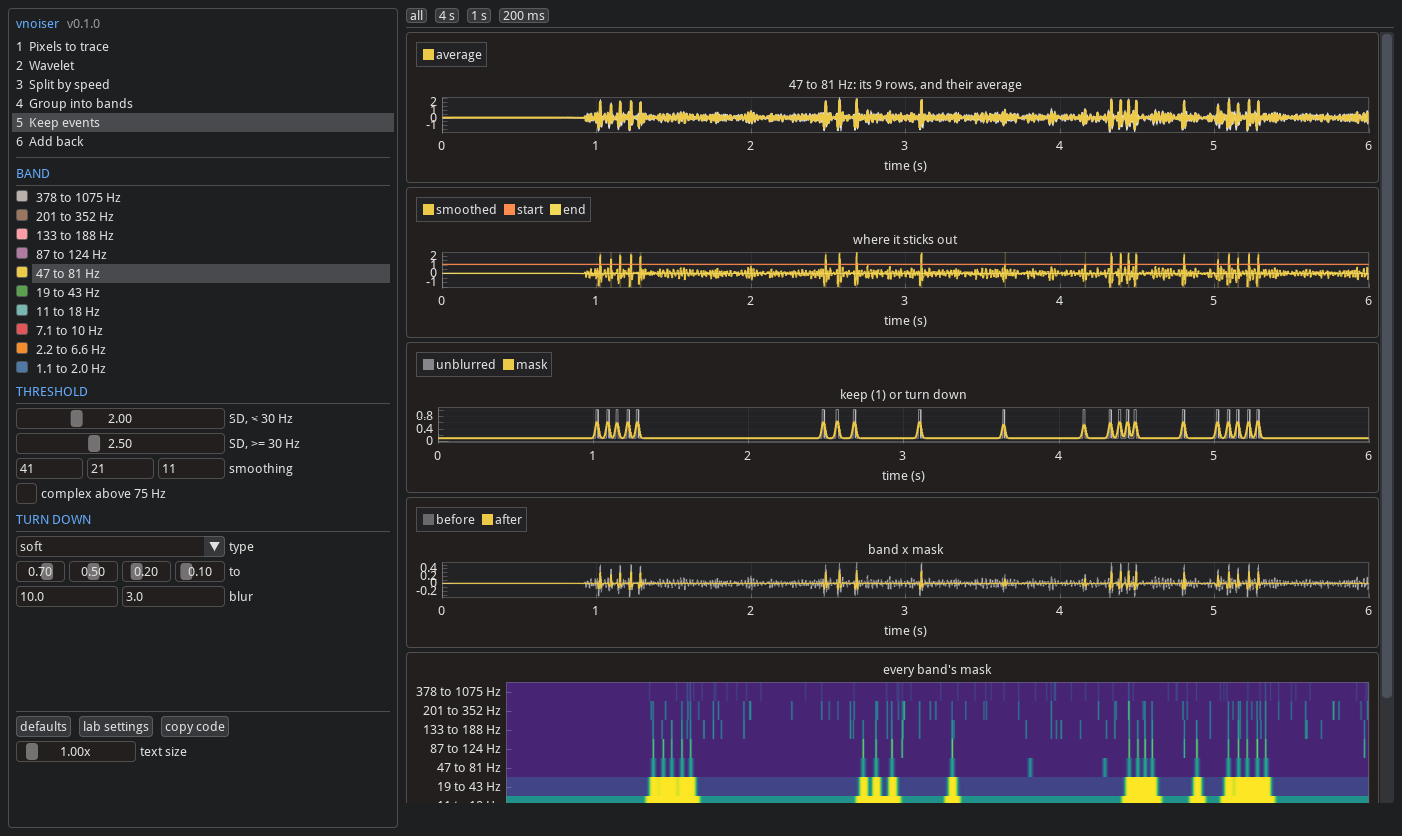
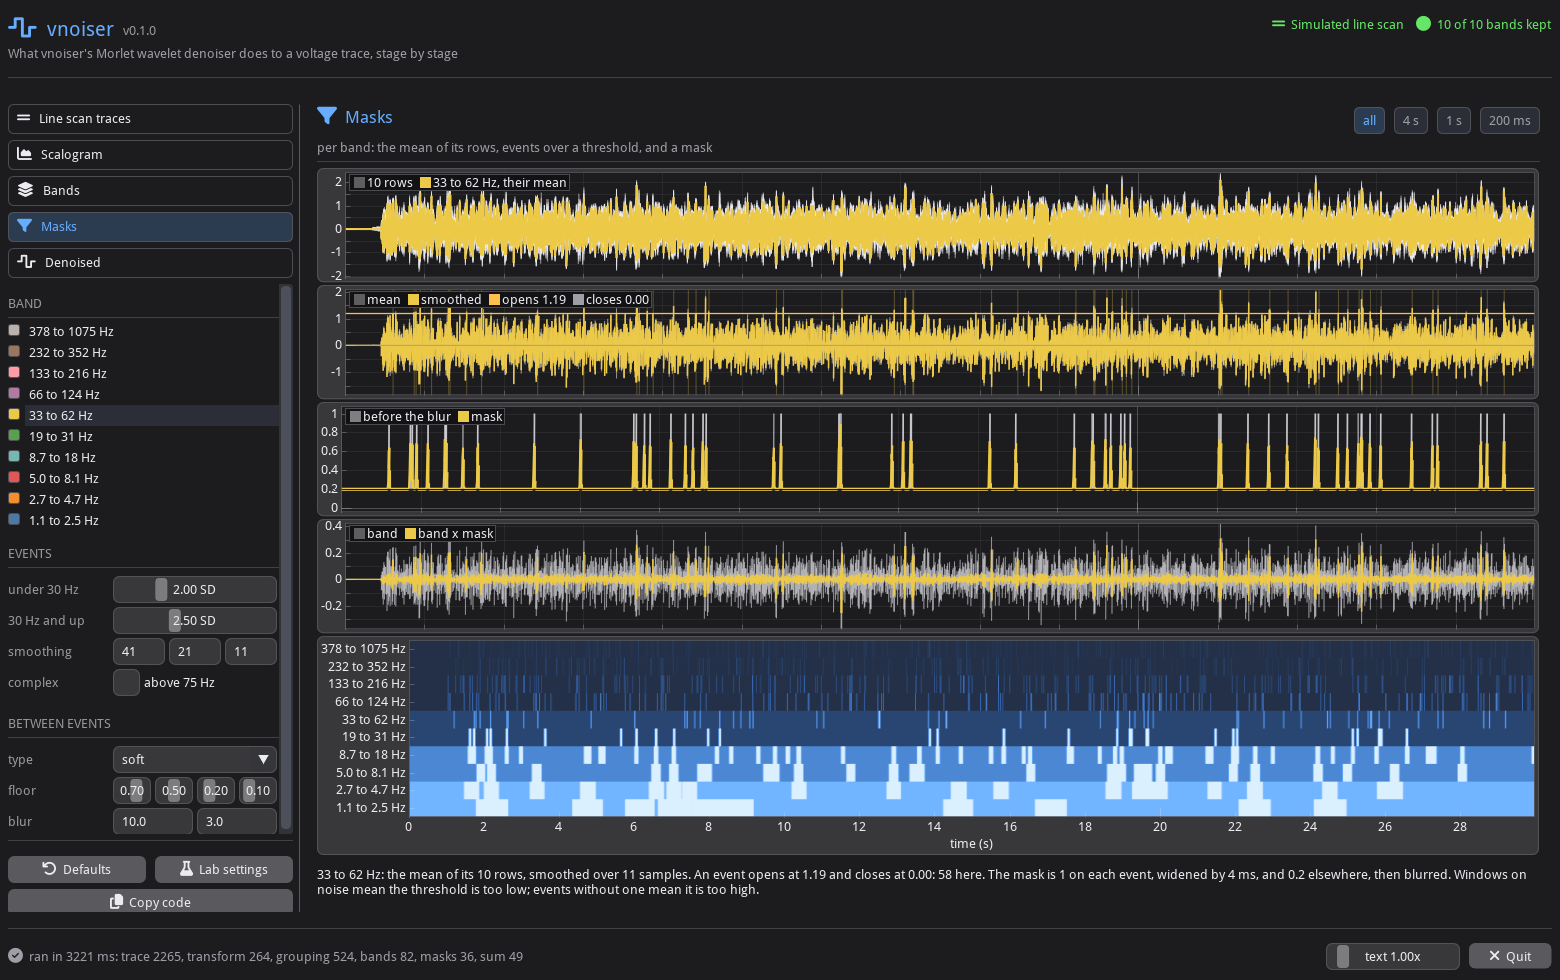
adds a screenshot script and regenerates the page images

diff --git a/scripts/screenshot.py b/scripts/screenshot.py
@@ -1,0 +1,26 @@
+"""
+Screenshots for the README: the window's own framebuffer, from a hidden window (`--screenshot`), one process per
+page. Each runs the default simulated line scan and saves docs/<page>.png. Needs a desktop session for the GL context.
+
+    python scripts/screenshot.py         # every page
+    python scripts/screenshot.py bands   # one
+"""
+
+import subprocess
+import sys
+from pathlib import Path
+
+REPO = Path(__file__).resolve().parent.parent
+PAGES = ("signal", "scalogram", "bands", "events", "final")
+
+
+def main() -> None:
+    for page in sys.argv[1:] or PAGES:
+        filepath_png = REPO / "docs" / f"{page}.png"
+        command = [sys.executable, "-m", "imgui_vnoiser.app", "--scale", "1", "--page", page, "--screenshot", str(filepath_png)]
+        subprocess.run(command, check=True, stdout=subprocess.DEVNULL, stderr=subprocess.DEVNULL)
+        print(filepath_png)
+
+
+if __name__ == "__main__":
+    main()
